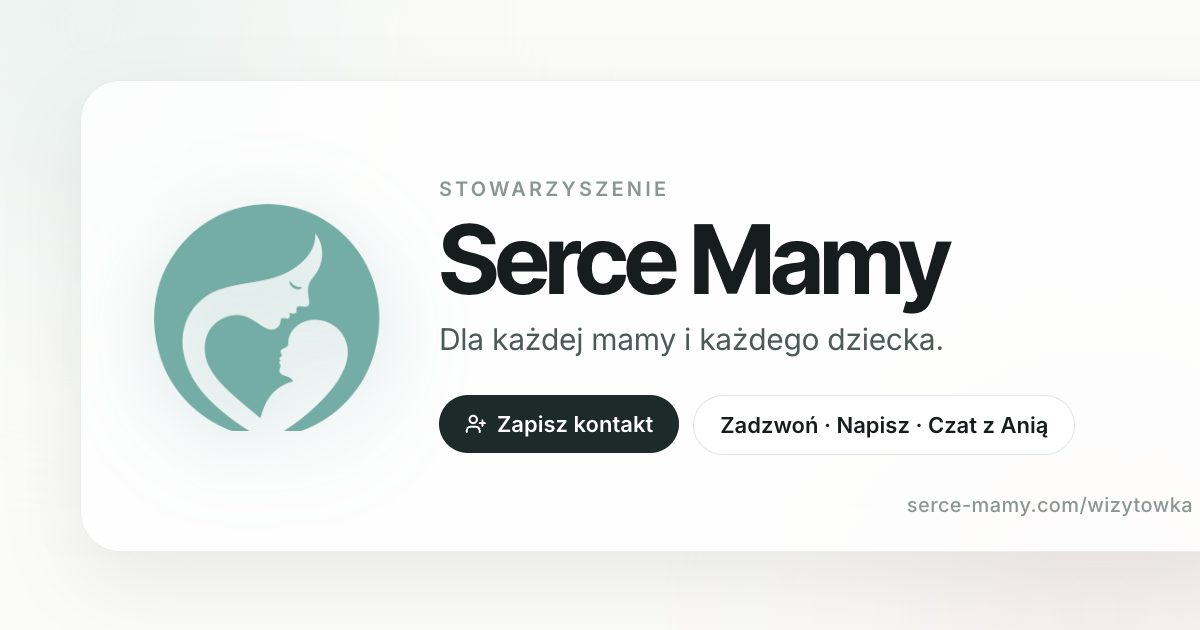
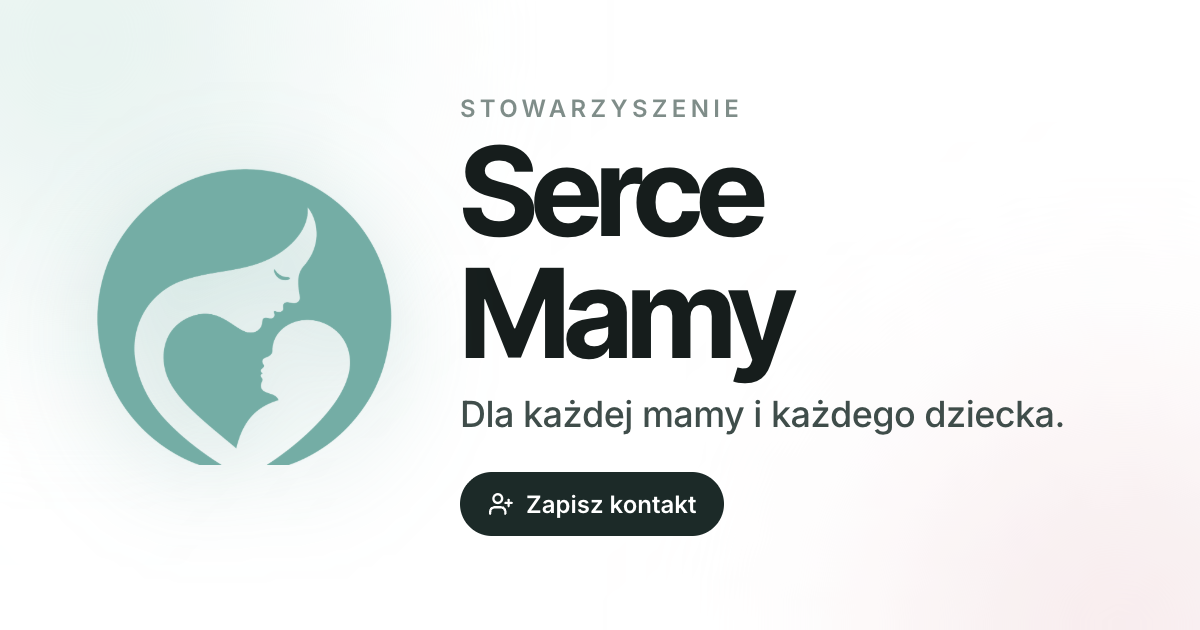
Wizytówka: ładniejszy podgląd linku w komunikatorach

diff --git a/wizytowka.html b/wizytowka.html
@@ -7,11 +7,14 @@
   <meta name="description" content="Kontakt do Stowarzyszenia Serce Mamy w Lublinie. Zapisz kontakt, zadzwoń, napisz." />
   <link rel="canonical" href="https://serce-mamy.com/wizytowka" />
   <meta property="og:title" content="Stowarzyszenie Serce Mamy" />
-  <meta property="og:description" content="Dla każdej mamy i każdego dziecka." />
+  <meta property="og:site_name" content="Serce Mamy" />
+  <meta property="og:locale" content="pl_PL" />
+  <meta property="og:description" content="Dla każdej mamy i każdego dziecka. Zapisz kontakt, zadzwoń albo napisz." />
   <meta property="og:url" content="https://serce-mamy.com/wizytowka" />
   <meta property="og:image" content="https://serce-mamy.com/og-wizytowka.png" />
   <meta property="og:image:width" content="1200" />
   <meta property="og:image:height" content="630" />
+  <meta property="og:image:alt" content="Wizytówka Stowarzyszenia Serce Mamy" />
   <meta property="og:type" content="website" />
   <meta name="twitter:card" content="summary_large_image" />
   <meta name="twitter:image" content="https://serce-mamy.com/og-wizytowka.png" />
